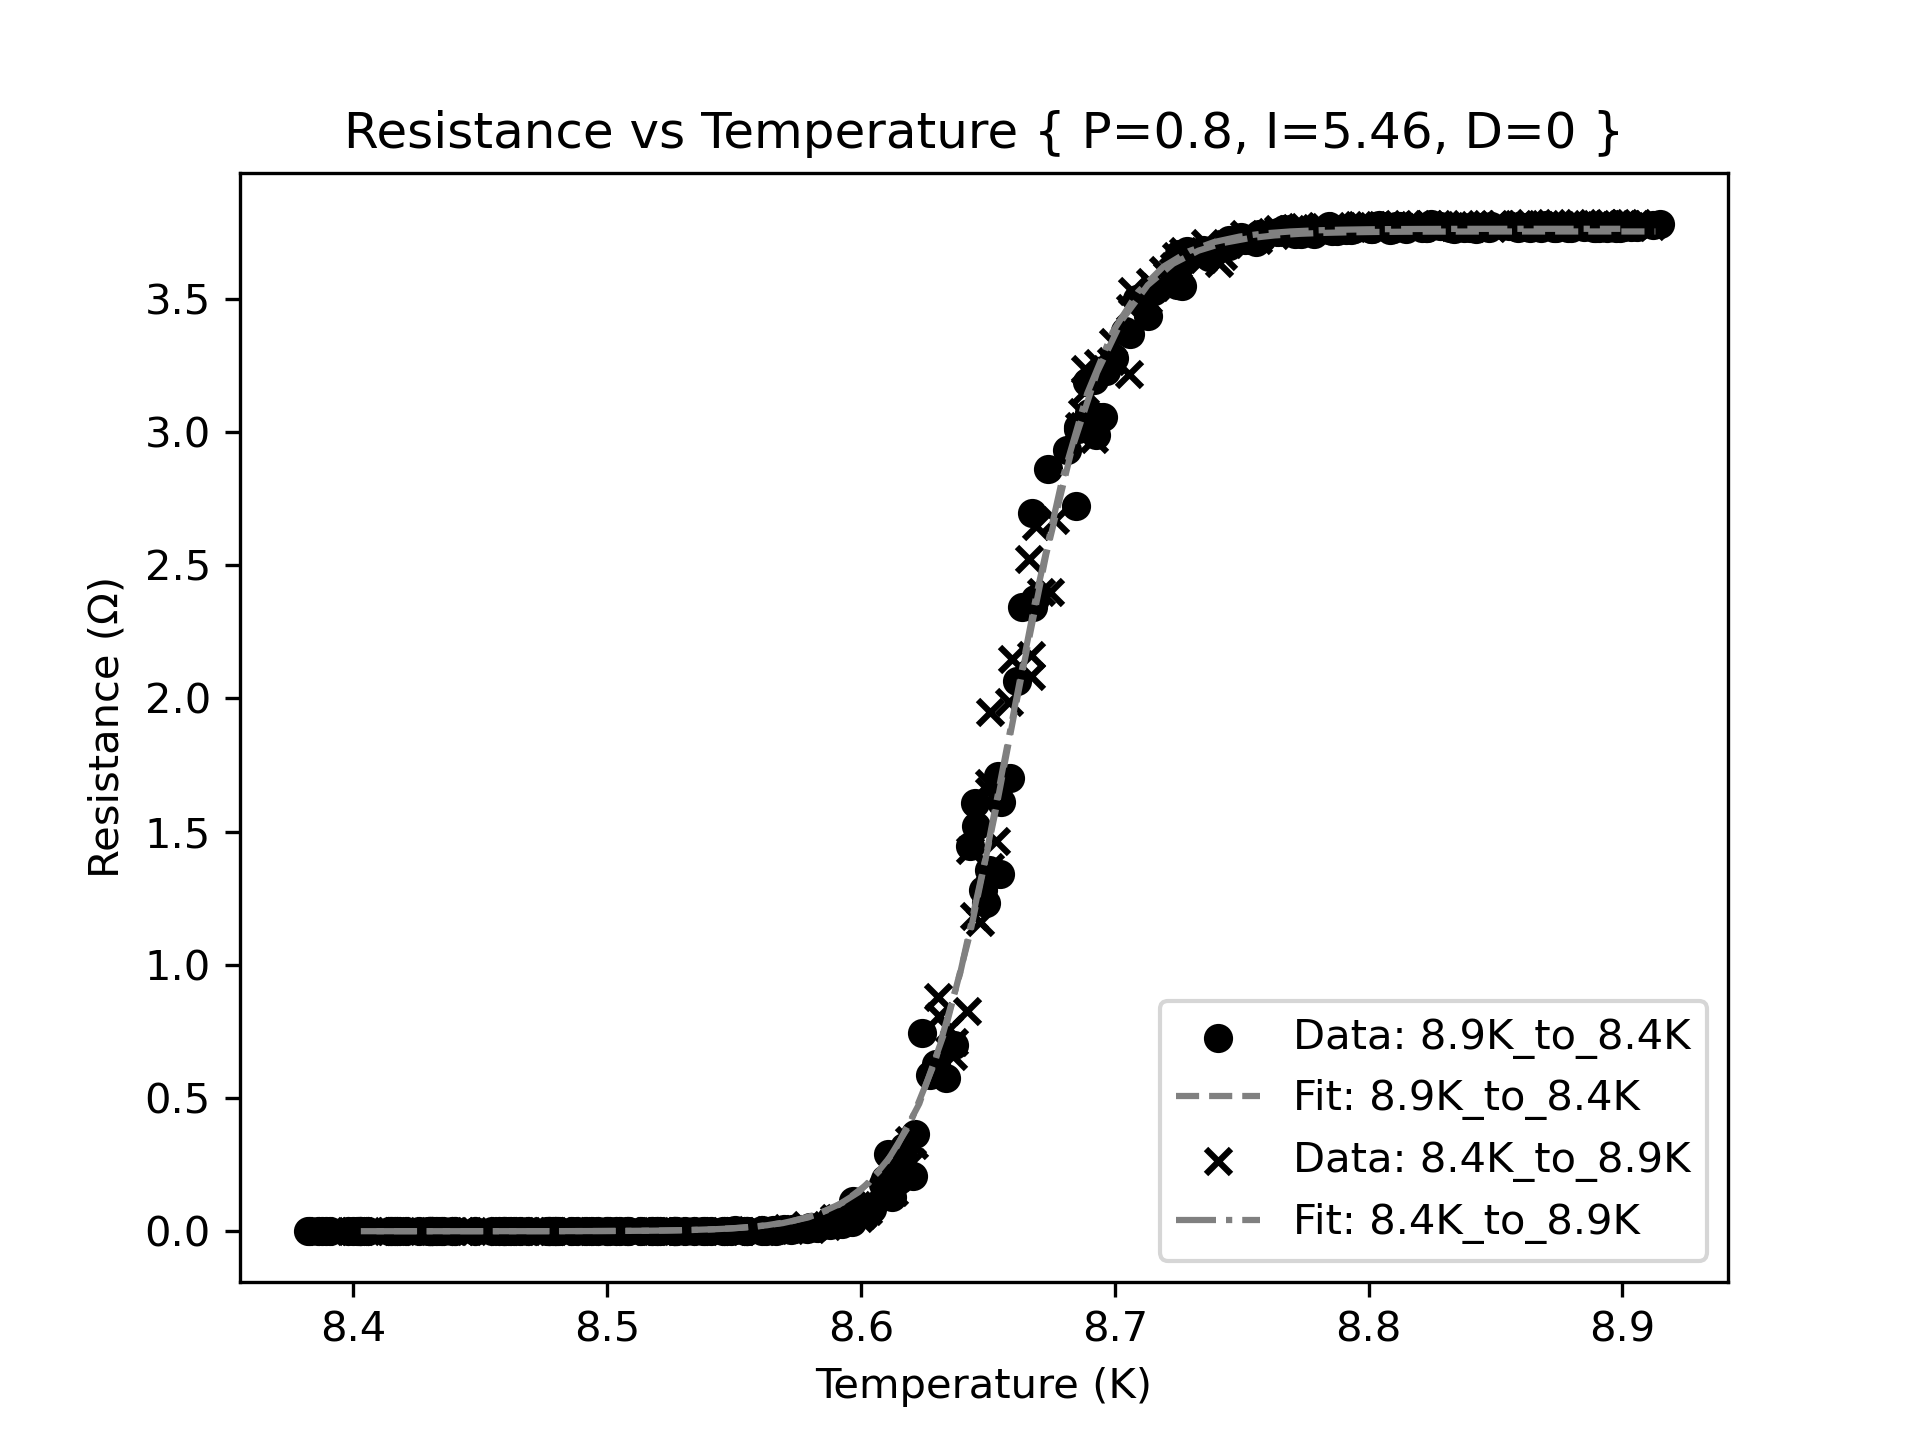
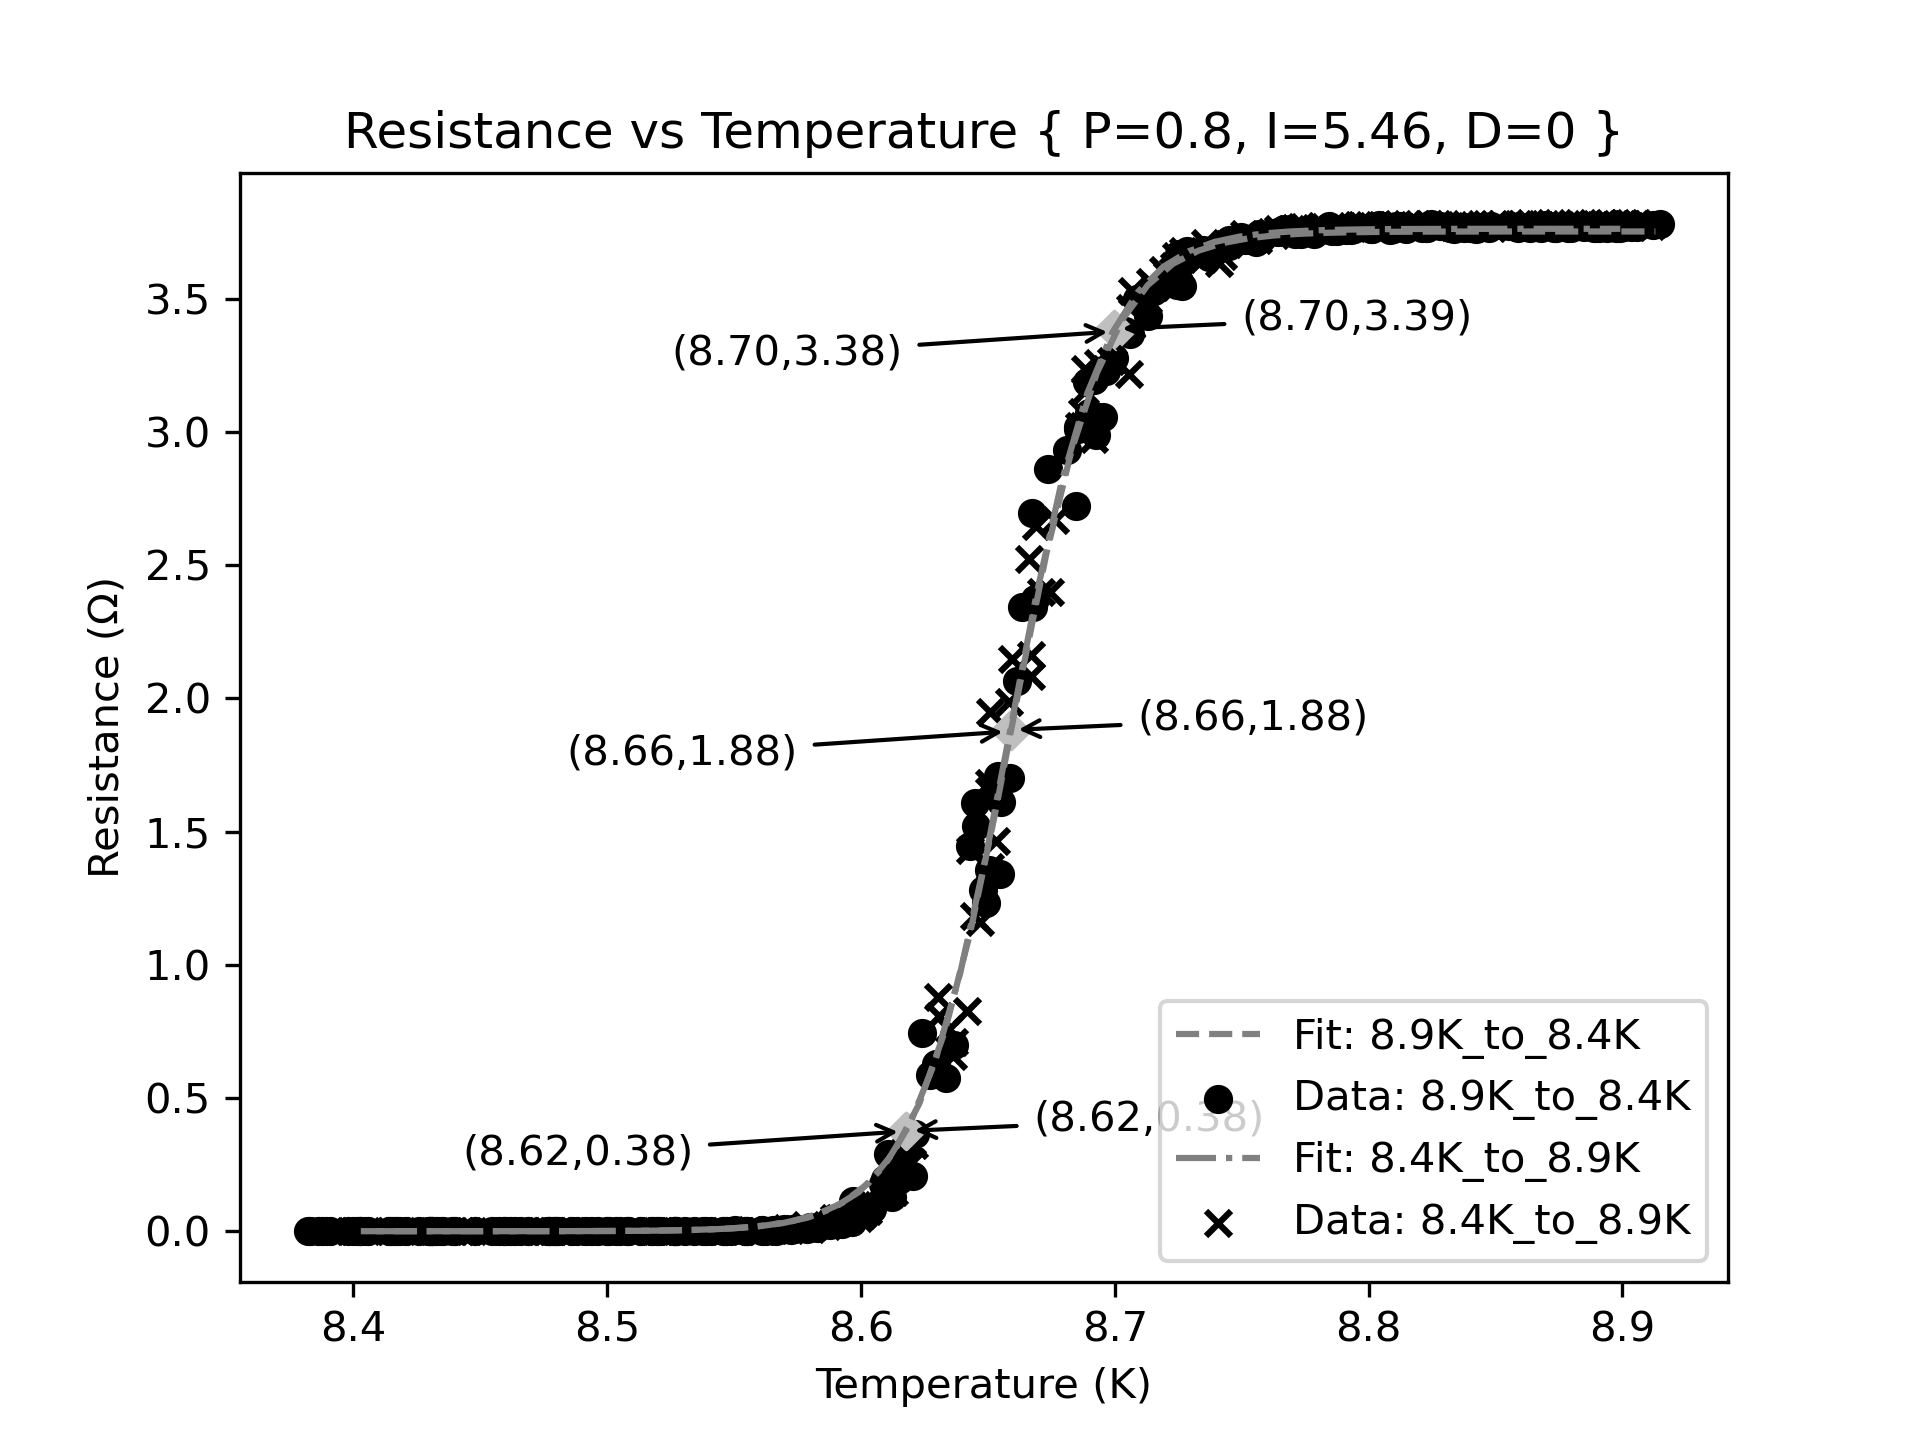
okay chaning the rest of the files was easy. Maximum reusability found

diff --git a/2_Superconducting_Transition/2.4-5.py b/2_Superconducting_Transition/2.4-5.py
@@ -3,38 +3,87 @@ import matplotlib.pyplot as plt
 import re
 from pandas import read_csv
 from scipy.optimize import curve_fit
+from math import log10, floor
 
+def round_sig(x, sig=1):
+    return round(x, sig-int(floor(log10(abs(x))))-1)
 
 def sigmoid(x, a, b, c):
     return (a / (1 + np.exp(-b * (x + c))))
 
-def get_data(file, start, stop, current, init_vals):
+def inv_sigmoid(y, a, b, c):
+    return ((-1/b) * np.log((a/y) - 1)) - c
+
+def print_fit_perams(label, ps, pcov):
+    print(f"{label}:")
+    pname = ["a", "b", "c"]
+    perr = np.sqrt(np.diag(pcov)) # one standard deviation errors
+    for p, err, name in zip(ps, perr, pname):
+        err = round_sig(err)
+        dec = len(str(err))-2
+        print(f"\t{name}: {p:1.{dec}f} ± {err}")
+
+def get_data(file, section, current, init_vals, fit_func):
     file_data = read_csv(file)
-    volt_data = file_data.get("Amplitude (V)").to_numpy()[start:stop]
-    temp_data = file_data.get("Temperature (K)").to_numpy()[start:stop]
+    # Extract the raw data lists from the data dictionary, and take a slice of the area of iterest
+    volt_data = file_data.get("Amplitude (V)").to_numpy()[section[0]:section[1]]
+    temp_data = file_data.get("Temperature (K)").to_numpy()[section[0]:section[1]]
+    # Convert the volateg value to a resistance
     resi_data = volt_data/current
-    fit, _ = curve_fit(sigmoid, temp_data, resi_data, p0=init_vals)
-    temp_start, temp_stop = temp_data[0], temp_data[-1]
-    if temp_start < temp_stop:
-        temp_fit = np.arange(temp_start, temp_stop, 0.01)
-    else:
-        temp_fit = np.arange(temp_stop, temp_start, 0.01)
-    volt_fit = sigmoid(temp_fit, *fit)
-    label = re.findall(r'(\d\.\dK_to_\d\.\dK)', file)
-    return ((temp_data, resi_data, f"Data: {label[0]}"), (temp_fit, volt_fit, f"Fit: {label[0]}"), fit)
+    # Generate points for the fitted curve
+    temp_fit, resi_fit, fit, fit_cov = get_fit(fit_func, temp_data, resi_data, init_vals) 
+    # Pull out the temperature range from the file name
+    label = re.findall(r'(\d.\dK_to_\d.\dK)', file)[0]
+    print_fit_perams(label, fit, fit_cov)
+    return ((temp_data, resi_data, f"Data: {label}"), (temp_fit, resi_fit, f"Fit: {label}"), fit)
 
-data_24 = get_data("2.4_Ramp_8.4K_to_8.9K_5V.csv", 0, 244, 9.5e-4, [3.762, 36, -8.7])
-data_25 = get_data("2.5_Ramp_8.9K_to_8.4K_5V.csv", 0, 244, 9.5e-4, [3.76, 36, -8.65])
+def get_fit(func, x, y, perams):
+    # Fit a sigmoid function to the raw data
+    fit, fit_cov = curve_fit(func, x, y, p0=perams)
+    # One data run if from low -> high temp and another is high -> low temp.
+    # therefore the range will be inverted for one of the runs
+    x1, x2 = x[0], x[-1]
+    larger  = lambda x1, x2: x1 if x1 > x2 else (x2 if x2 > x1 else 0)
+    smaller = lambda x1, x2: x1 if x1 < x2 else (x2 if x2 < x1 else 0)
+    x_fit = np.arange(smaller(x1, x2), larger(x1,x2), 0.01)
+    # generate the fitted curve data points
+    y_fit = sigmoid(x_fit, *fit)
+    return (x_fit, y_fit, fit, fit_cov)
 
-data_runs = (data_24, data_25)
+def get_t_annotations(func, offset, a, b, c):
+    result = []
+    a_vals = [x * a for x in [0.1, 0.5, 0.9]]
+    t_vals = func(a_vals, a, b, c).tolist()
+    t_off, a_off, i = offset
+    # just in case its not for some reason
+    if len(a_vals) != len(t_vals):
+        raise Exception(f"Length Issue:\na_vals = {a_vals}\nt_vals = {t_vals}")
+    for t, a in zip(t_vals, a_vals):
+        # Alternate between shifting the annotations left or right of the point
+        r_l = (-1) ** i
+        # Account for the length of the annotation
+        # the left shited labels need moved over more.
+        adjust = lambda r_l: 0.125 if r_l == 1 else 0
+        xy_text = [t - (adjust(r_l) + (t_off * r_l)), a - (adjust(r_l) + (a_off * r_l))]
+        label = f"({t:1.2f},{a:1.2f})"
+        result.append(((t, a), label, xy_text))
+    return result
+
+data_20 = get_data("2.4_Ramp_8.4K_to_8.9K_5V.csv", (0, 244), 4.8e-3, [3.762, 36, -8.7], sigmoid)
+data_21 = get_data("2.5_Ramp_8.9K_to_8.4K_5V.csv", (0, 244), 4.8e-3, [3.76, 36, -8.65], sigmoid)
+data_runs = (data_20, data_21)
 
 markers = ["o", "x", "D"]
 linestyles = ["dashed", "dashdot", "dotted"]
+
 fig, ax = plt.subplots()
-for i, data in enumerate(data_runs):
-    ax.scatter(data[0][0], data[0][1], color=(0, 0, 0), marker=markers[i], label=data[0][2])
-    ax.plot(data[1][0], data[1][1], color=(0.5, 0.5, 0.5), linestyle=linestyles[i], label=data[1][2])
-#ax.hlines((3.762, 0), xmin=8.3, xmax=8.9, color='k', linestyle="dotted")
+for i, run in enumerate(data_runs):
+    ax.plot(run[1][0], run[1][1], color=(0.5, 0.5, 0.5), linestyle=linestyles[i], label=run[1][2])
+    ax.scatter(run[0][0], run[0][1], color=(0, 0, 0), marker=markers[i], label=run[0][2])
+    t = get_t_annotations(inv_sigmoid, (0.05, 0, i), *run[2]) # Get the annotations for the graph
+    for point in t:
+        ax.scatter(*point[0], color=(0.75, 0.75, 0.75), marker="D")
+        ax.annotate(point[1], xy=point[0], xycoords='data', xytext=point[2], arrowprops=dict(arrowstyle="->"))
 ax.set_title("Resistance vs Temperature { P=0.8, I=5.46, D=0 }")
 ax.set_xlabel("Temperature (K)")
 ax.set_ylabel("Resistance (Ω)")

diff --git a/2_Superconducting_Transition/2.2-3.py b/2_Superconducting_Transition/2.2-3.py
@@ -3,39 +3,88 @@ import matplotlib.pyplot as plt
 import re
 from pandas import read_csv
 from scipy.optimize import curve_fit
+from math import log10, floor
 
+def round_sig(x, sig=1):
+    return round(x, sig-int(floor(log10(abs(x))))-1)
 
 def sigmoid(x, a, b, c):
     return (a / (1 + np.exp(-b * (x + c))))
 
-def get_data(file, start, stop, current, init_vals):
+def inv_sigmoid(y, a, b, c):
+    return ((-1/b) * np.log((a/y) - 1)) - c
+
+def print_fit_perams(label, ps, pcov):
+    print(f"{label}:")
+    pname = ["a", "b", "c"]
+    perr = np.sqrt(np.diag(pcov)) # one standard deviation errors
+    for p, err, name in zip(ps, perr, pname):
+        err = round_sig(err)
+        dec = len(str(err))-2
+        print(f"\t{name}: {p:1.{dec}f} ± {err}")
+
+def get_data(file, section, current, init_vals, fit_func):
     file_data = read_csv(file)
-    volt_data = file_data.get("Amplitude (V)").to_numpy()[start:stop]
-    temp_data = file_data.get("Temperature (K)").to_numpy()[start:stop]
+    # Extract the raw data lists from the data dictionary, and take a slice of the area of iterest
+    volt_data = file_data.get("Amplitude (V)").to_numpy()[section[0]:section[1]]
+    temp_data = file_data.get("Temperature (K)").to_numpy()[section[0]:section[1]]
+    # Convert the volateg value to a resistance
     resi_data = volt_data/current
-    fit, _ = curve_fit(sigmoid, temp_data, resi_data, p0=init_vals)
-    temp_start, temp_stop = temp_data[0], temp_data[-1]
-    if temp_start < temp_stop:
-        temp_fit = np.arange(temp_start, temp_stop, 0.01)
-    else:
-        temp_fit = np.arange(temp_stop, temp_start, 0.01)
-    volt_fit = sigmoid(temp_fit, *fit)
-    label = re.findall(r'(\d\.\dK_to_\d\.\dK)', file)
-    return ((temp_data, resi_data, f"Data: {label[0]}"), (temp_fit, volt_fit, f"Fit: {label[0]}"), fit)
+    # Generate points for the fitted curve
+    temp_fit, resi_fit, fit, fit_cov = get_fit(fit_func, temp_data, resi_data, init_vals) 
+    # Pull out the temperature range from the file name
+    label = re.findall(r'(\d.\dK_to_\d.\dK)', file)[0]
+    print_fit_perams(label, fit, fit_cov)
+    return ((temp_data, resi_data, f"Data: {label}"), (temp_fit, resi_fit, f"Fit: {label}"), fit)
+
+def get_fit(func, x, y, perams):
+    # Fit a sigmoid function to the raw data
+    fit, fit_cov = curve_fit(func, x, y, p0=perams)
+    # One data run if from low -> high temp and another is high -> low temp.
+    # therefore the range will be inverted for one of the runs
+    x1, x2 = x[0], x[-1]
+    larger  = lambda x1, x2: x1 if x1 > x2 else (x2 if x2 > x1 else 0)
+    smaller = lambda x1, x2: x1 if x1 < x2 else (x2 if x2 < x1 else 0)
+    x_fit = np.arange(smaller(x1, x2), larger(x1,x2), 0.01)
+    # generate the fitted curve data points
+    y_fit = sigmoid(x_fit, *fit)
+    return (x_fit, y_fit, fit, fit_cov)
+
+def get_t_annotations(func, offset, a, b, c):
+    result = []
+    a_vals = [x * a for x in [0.1, 0.5, 0.9]]
+    t_vals = func(a_vals, a, b, c).tolist()
+    t_off, a_off, i = offset
+    # just in case its not for some reason
+    if len(a_vals) != len(t_vals):
+        raise Exception(f"Length Issue:\na_vals = {a_vals}\nt_vals = {t_vals}")
+    for t, a in zip(t_vals, a_vals):
+        # Alternate between shifting the annotations left or right of the point
+        r_l = (-1) ** i
+        # Account for the length of the annotation
+        # the left shited labels need moved over more.
+        adjust = lambda r_l: 0.125 if r_l == 1 else 0
+        xy_text = [t - (adjust(r_l) + (t_off * r_l)), a - (adjust(r_l) + (a_off * r_l))]
+        label = f"({t:1.2f},{a:1.2f})"
+        result.append(((t, a), label, xy_text))
+    return result
 
 
-data_22 = get_data("2.2_Ramp_8.9K_to_8.4K.csv", 0, 238, 9.5e-4, [3.762, 36, -8.7])
-data_23 = get_data("2.3_Ramp_8.4K_to_8.9K.csv", 0, 238, 9.5e-4, [3.76, 36, -8.65])
-
+data_22 = get_data("2.2_Ramp_8.9K_to_8.4K.csv", (0, 238), 9.5e-4, [3.762, 36, -8.7], sigmoid)
+data_23 = get_data("2.3_Ramp_8.4K_to_8.9K.csv", (0, 238), 9.5e-4, [3.76, 36, -8.65], sigmoid)
 data_runs = (data_22, data_23)
 
 markers = ["o", "x", "D"]
 linestyles = ["dashed", "dashdot", "dotted"]
+
 fig, ax = plt.subplots()
-for i, data in enumerate(data_runs):
-    ax.scatter(data[0][0], data[0][1], color=(0, 0, 0), marker=markers[i], label=data[0][2])
-    ax.plot(data[1][0], data[1][1], color=(0.5, 0.5, 0.5), linestyle=linestyles[i], label=data[1][2])
-#ax.hlines((3.762, 0), xmin=8.3, xmax=8.9, color='k', linestyle="dotted")
+for i, run in enumerate(data_runs):
+    ax.plot(run[1][0], run[1][1], color=(0.5, 0.5, 0.5), linestyle=linestyles[i], label=run[1][2])
+    ax.scatter(run[0][0], run[0][1], color=(0, 0, 0), marker=markers[i], label=run[0][2])
+    t = get_t_annotations(inv_sigmoid, (0.05, 0, i), *run[2]) # Get the annotations for the graph
+    for point in t:
+        ax.scatter(*point[0], color=(0.75, 0.75, 0.75), marker="D")
+        ax.annotate(point[1], xy=point[0], xycoords='data', xytext=point[2], arrowprops=dict(arrowstyle="->"))
 ax.set_title("Resistance vs Temperature { P=0.8, I=5.46, D=0 }")
 ax.set_xlabel("Temperature (K)")
 ax.set_ylabel("Resistance (Ω)")

diff --git a/2_Superconducting_Transition/2.0-1.py b/2_Superconducting_Transition/2.0-1.py
@@ -33,9 +33,9 @@ def get_data(file, section, current, init_vals, fit_func):
     # Generate points for the fitted curve
     temp_fit, resi_fit, fit, fit_cov = get_fit(fit_func, temp_data, resi_data, init_vals) 
     # Pull out the temperature range from the file name
-    label = re.findall(r'(\d{1,2}K_to_\d{1,2}K)', file)
+    label = re.findall(r'(\d{1,2}K_to_\d{1,2}K)', file)[0]
     print_fit_perams(label, fit, fit_cov)
-    return ((temp_data, resi_data, f"Data: {label[0]}"), (temp_fit, resi_fit, f"Fit: {label[0]}"), fit)
+    return ((temp_data, resi_data, f"Data: {label}"), (temp_fit, resi_fit, f"Fit: {label}"), fit)
 
 def get_fit(func, x, y, perams):
     # Fit a sigmoid function to the raw data
